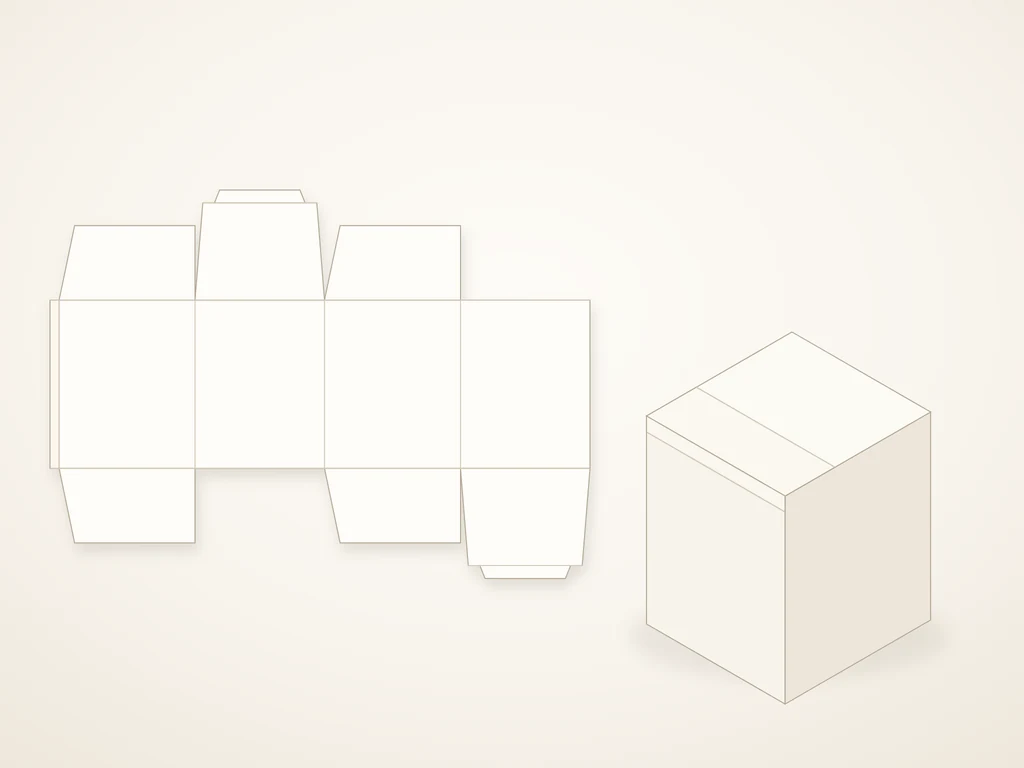
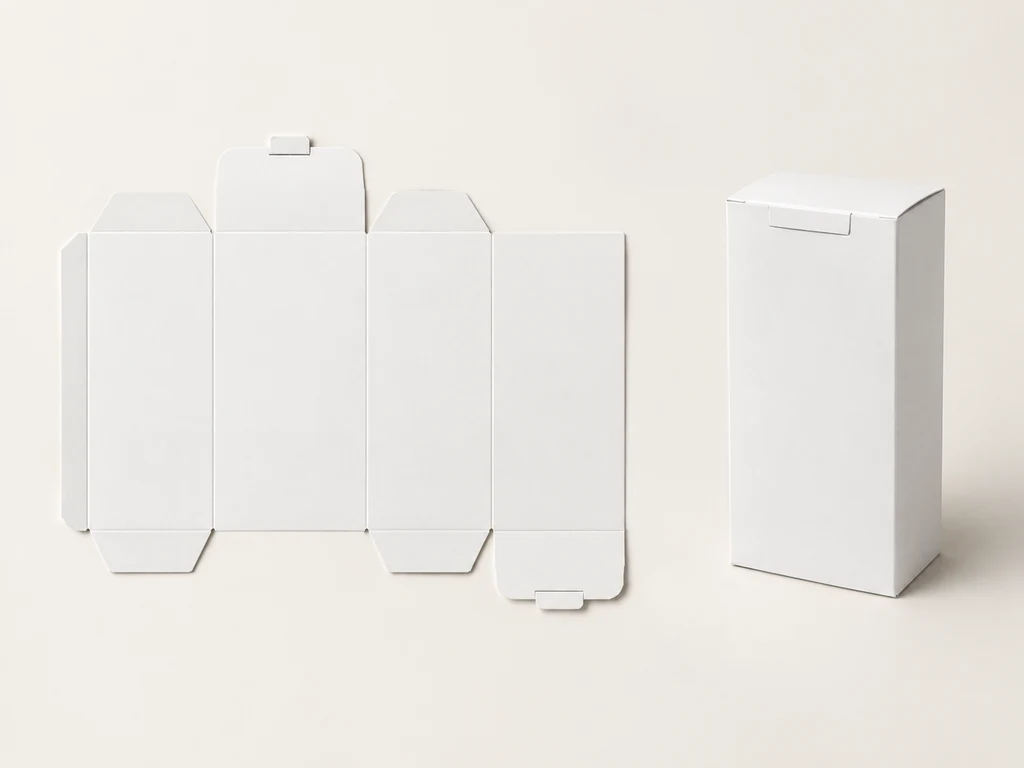
site: publish via Git Data API

diff --git a/capabilities.html b/capabilities.html
@@ -119,7 +119,7 @@
       </div>
 
       <figure class="hero__figure">
-        <img src="assets/img/structure-blank-and-erected.webp?v=5e962d69b7" width="1024" height="768" loading="lazy"
+        <img src="assets/img/structure-blank-and-erected.webp?v=77f8f9106f" width="1024" height="768" loading="lazy"
              alt="Studio illustration of a flat unfolded carton blank beside the same carton erected and closed. Illustration, not a specification.">
         <figcaption>The flat blank and the box it becomes — the same drawing decides both.</figcaption>
       </figure>
